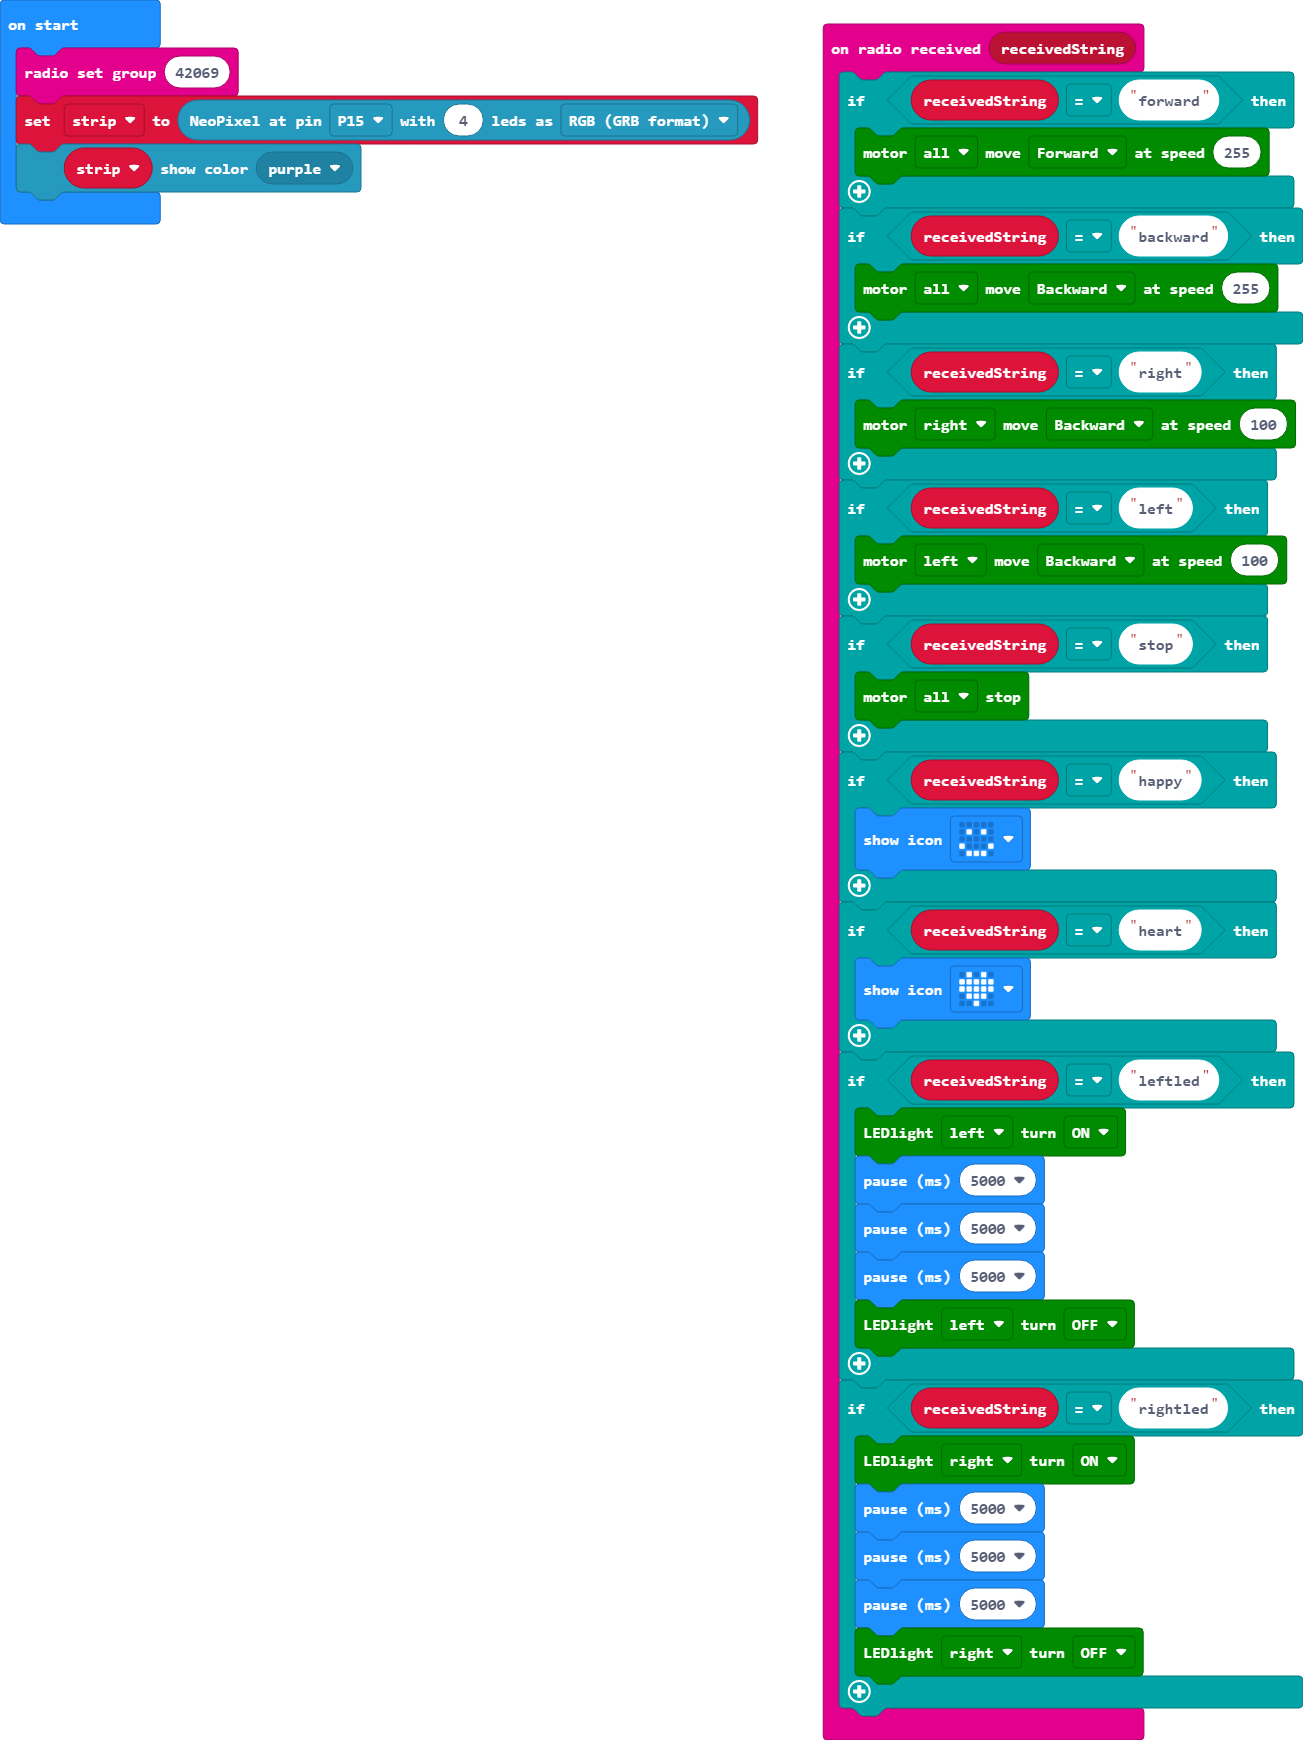
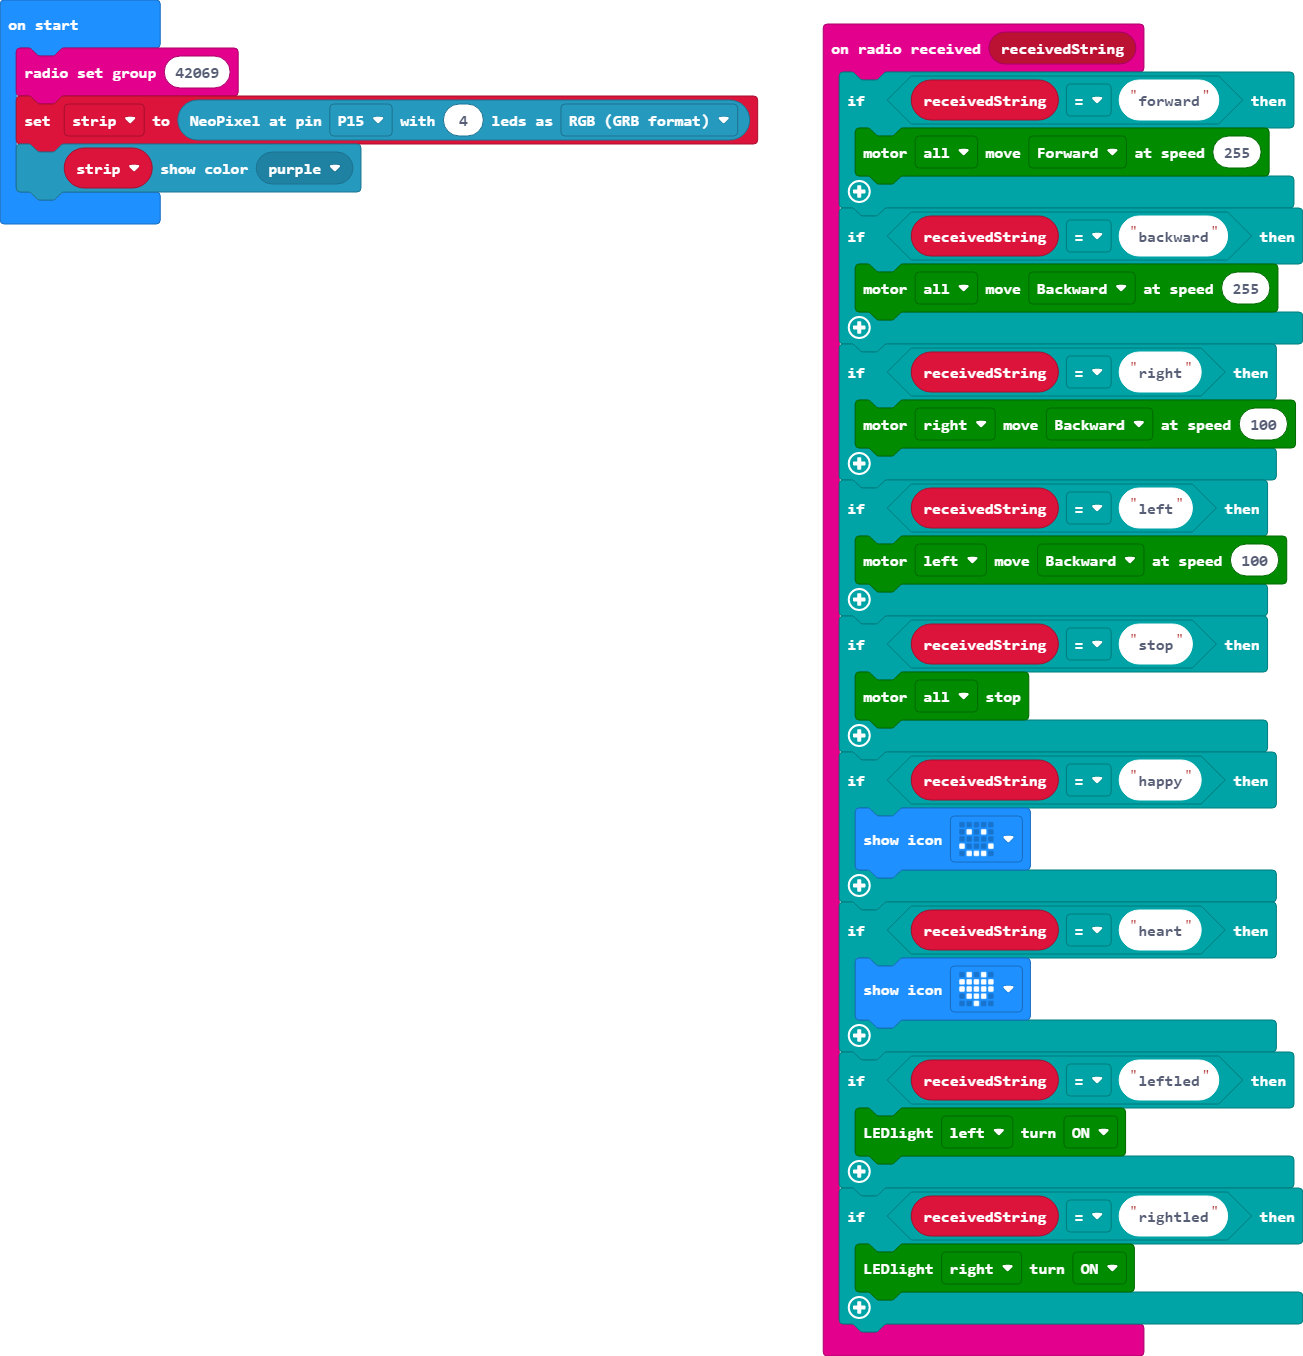
Update main.blocks, main.ts

Changed region(s): [[0.614, 0.0, 1.0, 0.9912], [0.0, 0.0, 0.5833, 0.1858]]

diff --git a/main.ts b/main.ts
@@ -22,17 +22,9 @@ radio.onReceivedString(function (receivedString) {
     }
     if (receivedString == "leftled") {
         maqueen.writeLED(maqueen.LED.LEDLeft, maqueen.LEDswitch.turnOn)
-        basic.pause(5000)
-        basic.pause(5000)
-        basic.pause(5000)
-        maqueen.writeLED(maqueen.LED.LEDLeft, maqueen.LEDswitch.turnOff)
     }
     if (receivedString == "rightled") {
         maqueen.writeLED(maqueen.LED.LEDRight, maqueen.LEDswitch.turnOn)
-        basic.pause(5000)
-        basic.pause(5000)
-        basic.pause(5000)
-        maqueen.writeLED(maqueen.LED.LEDRight, maqueen.LEDswitch.turnOff)
     }
 })
 radio.setGroup(42069)
